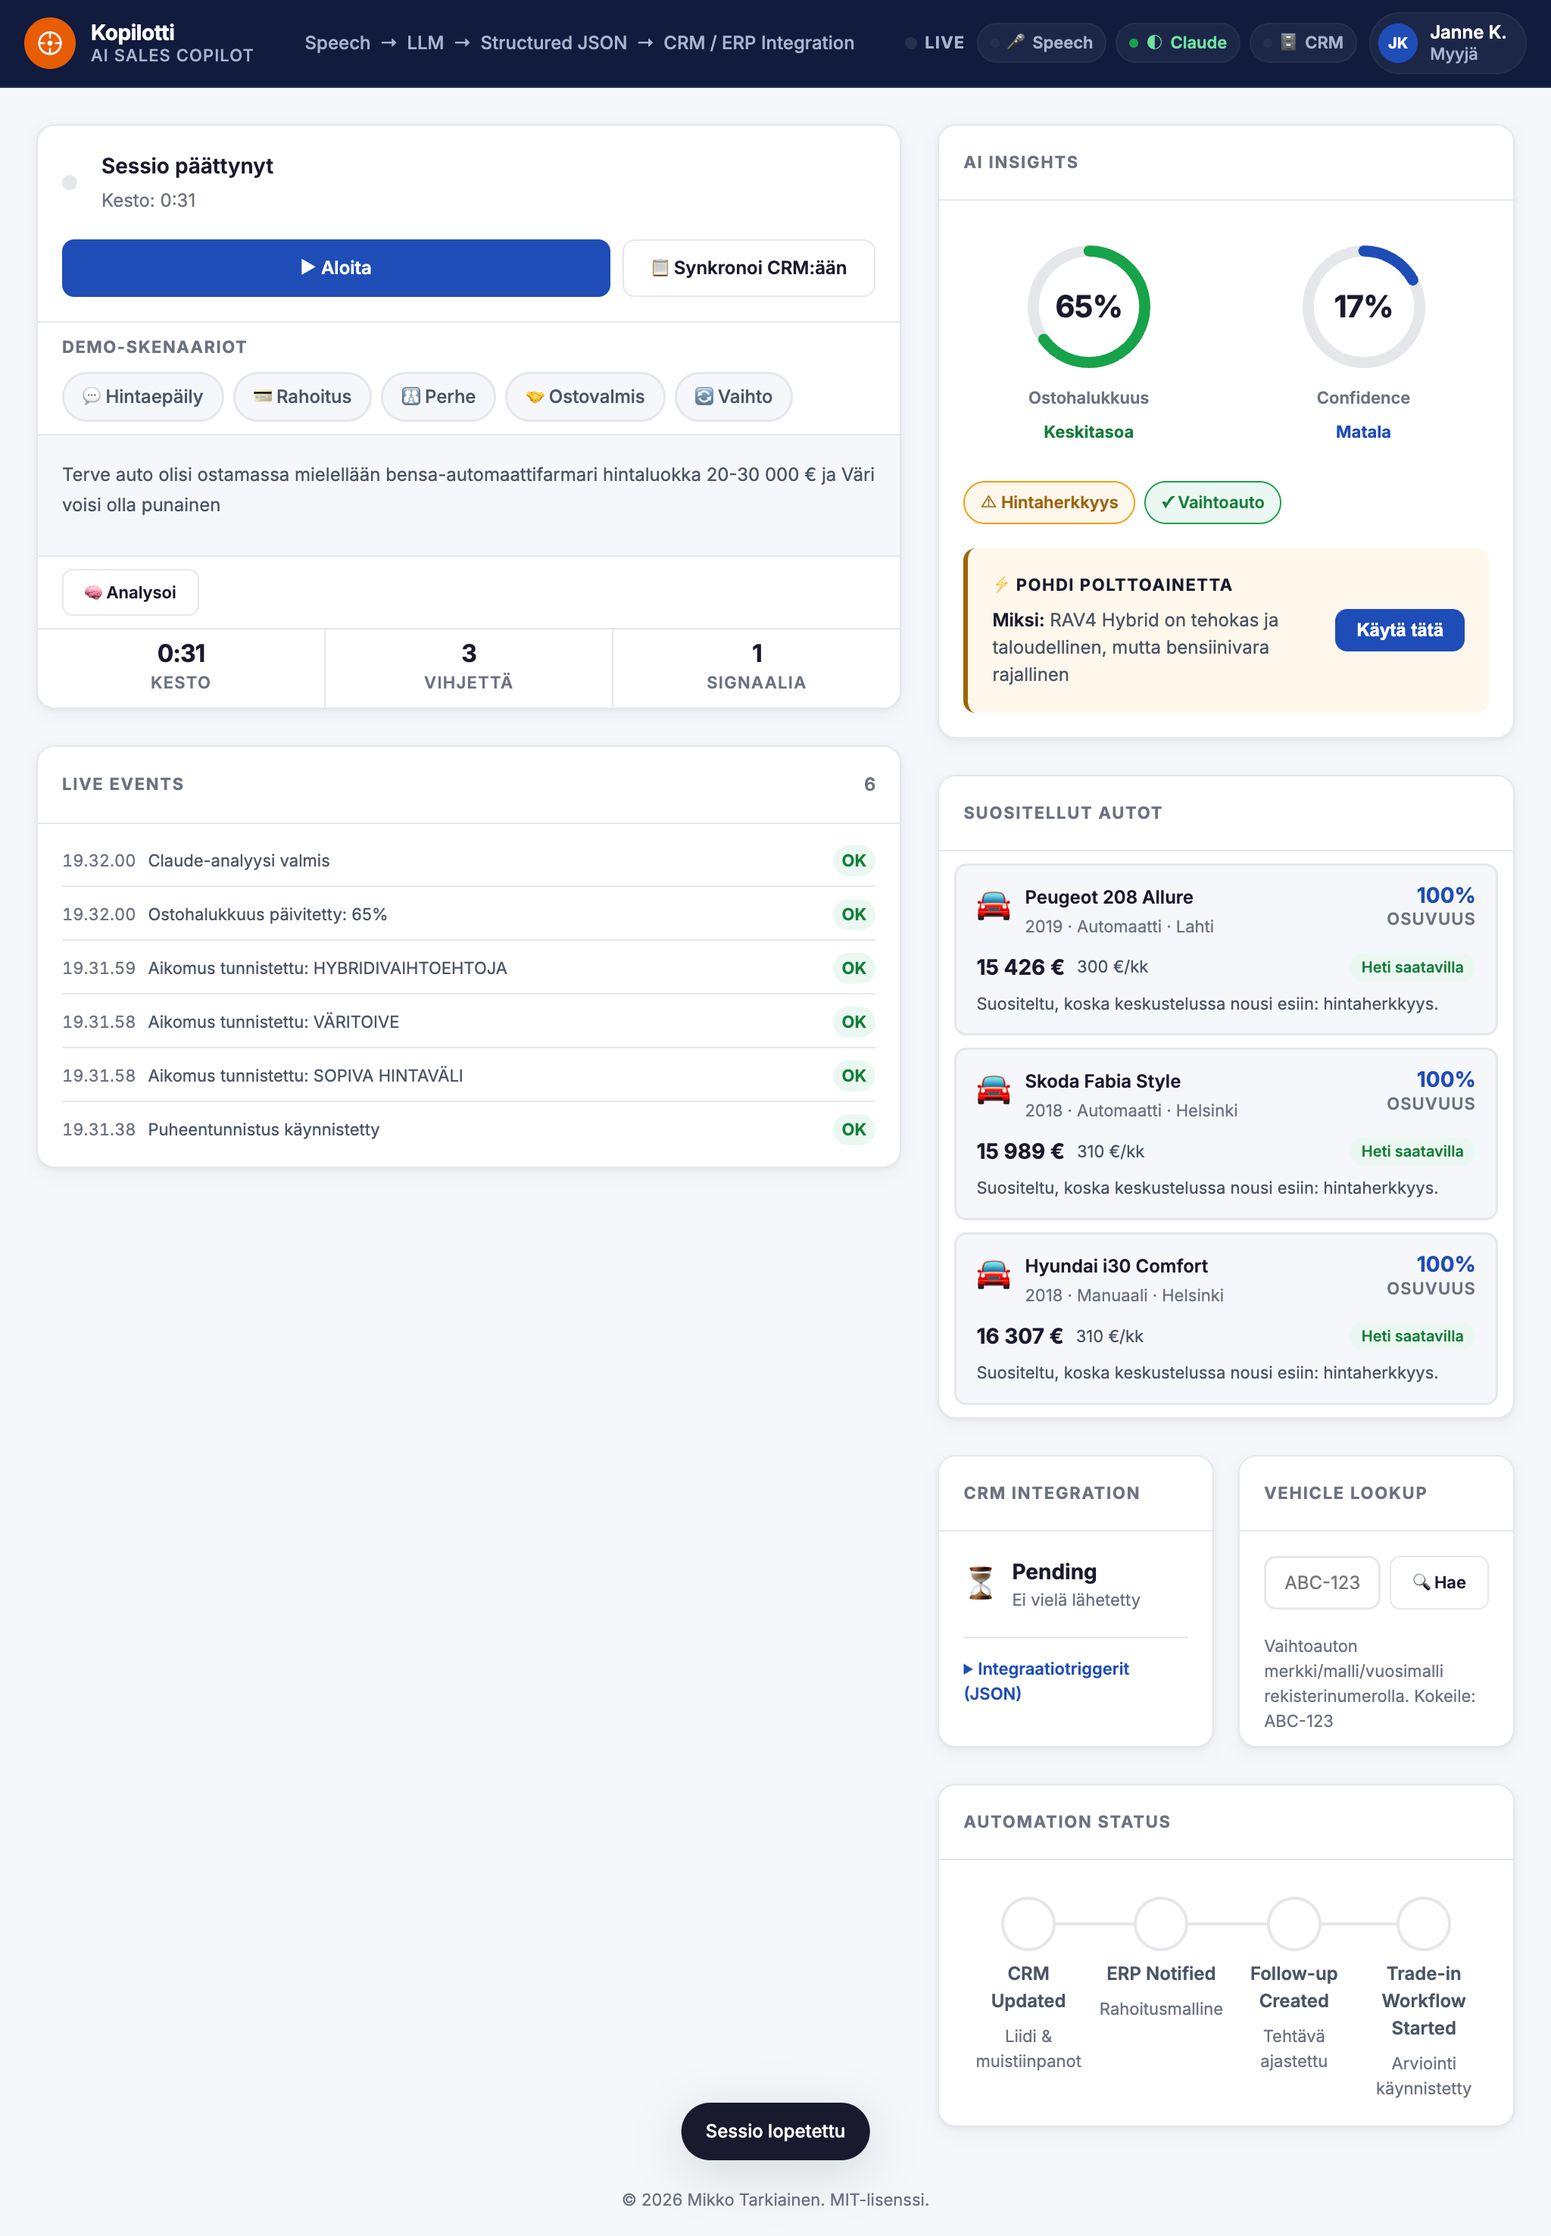
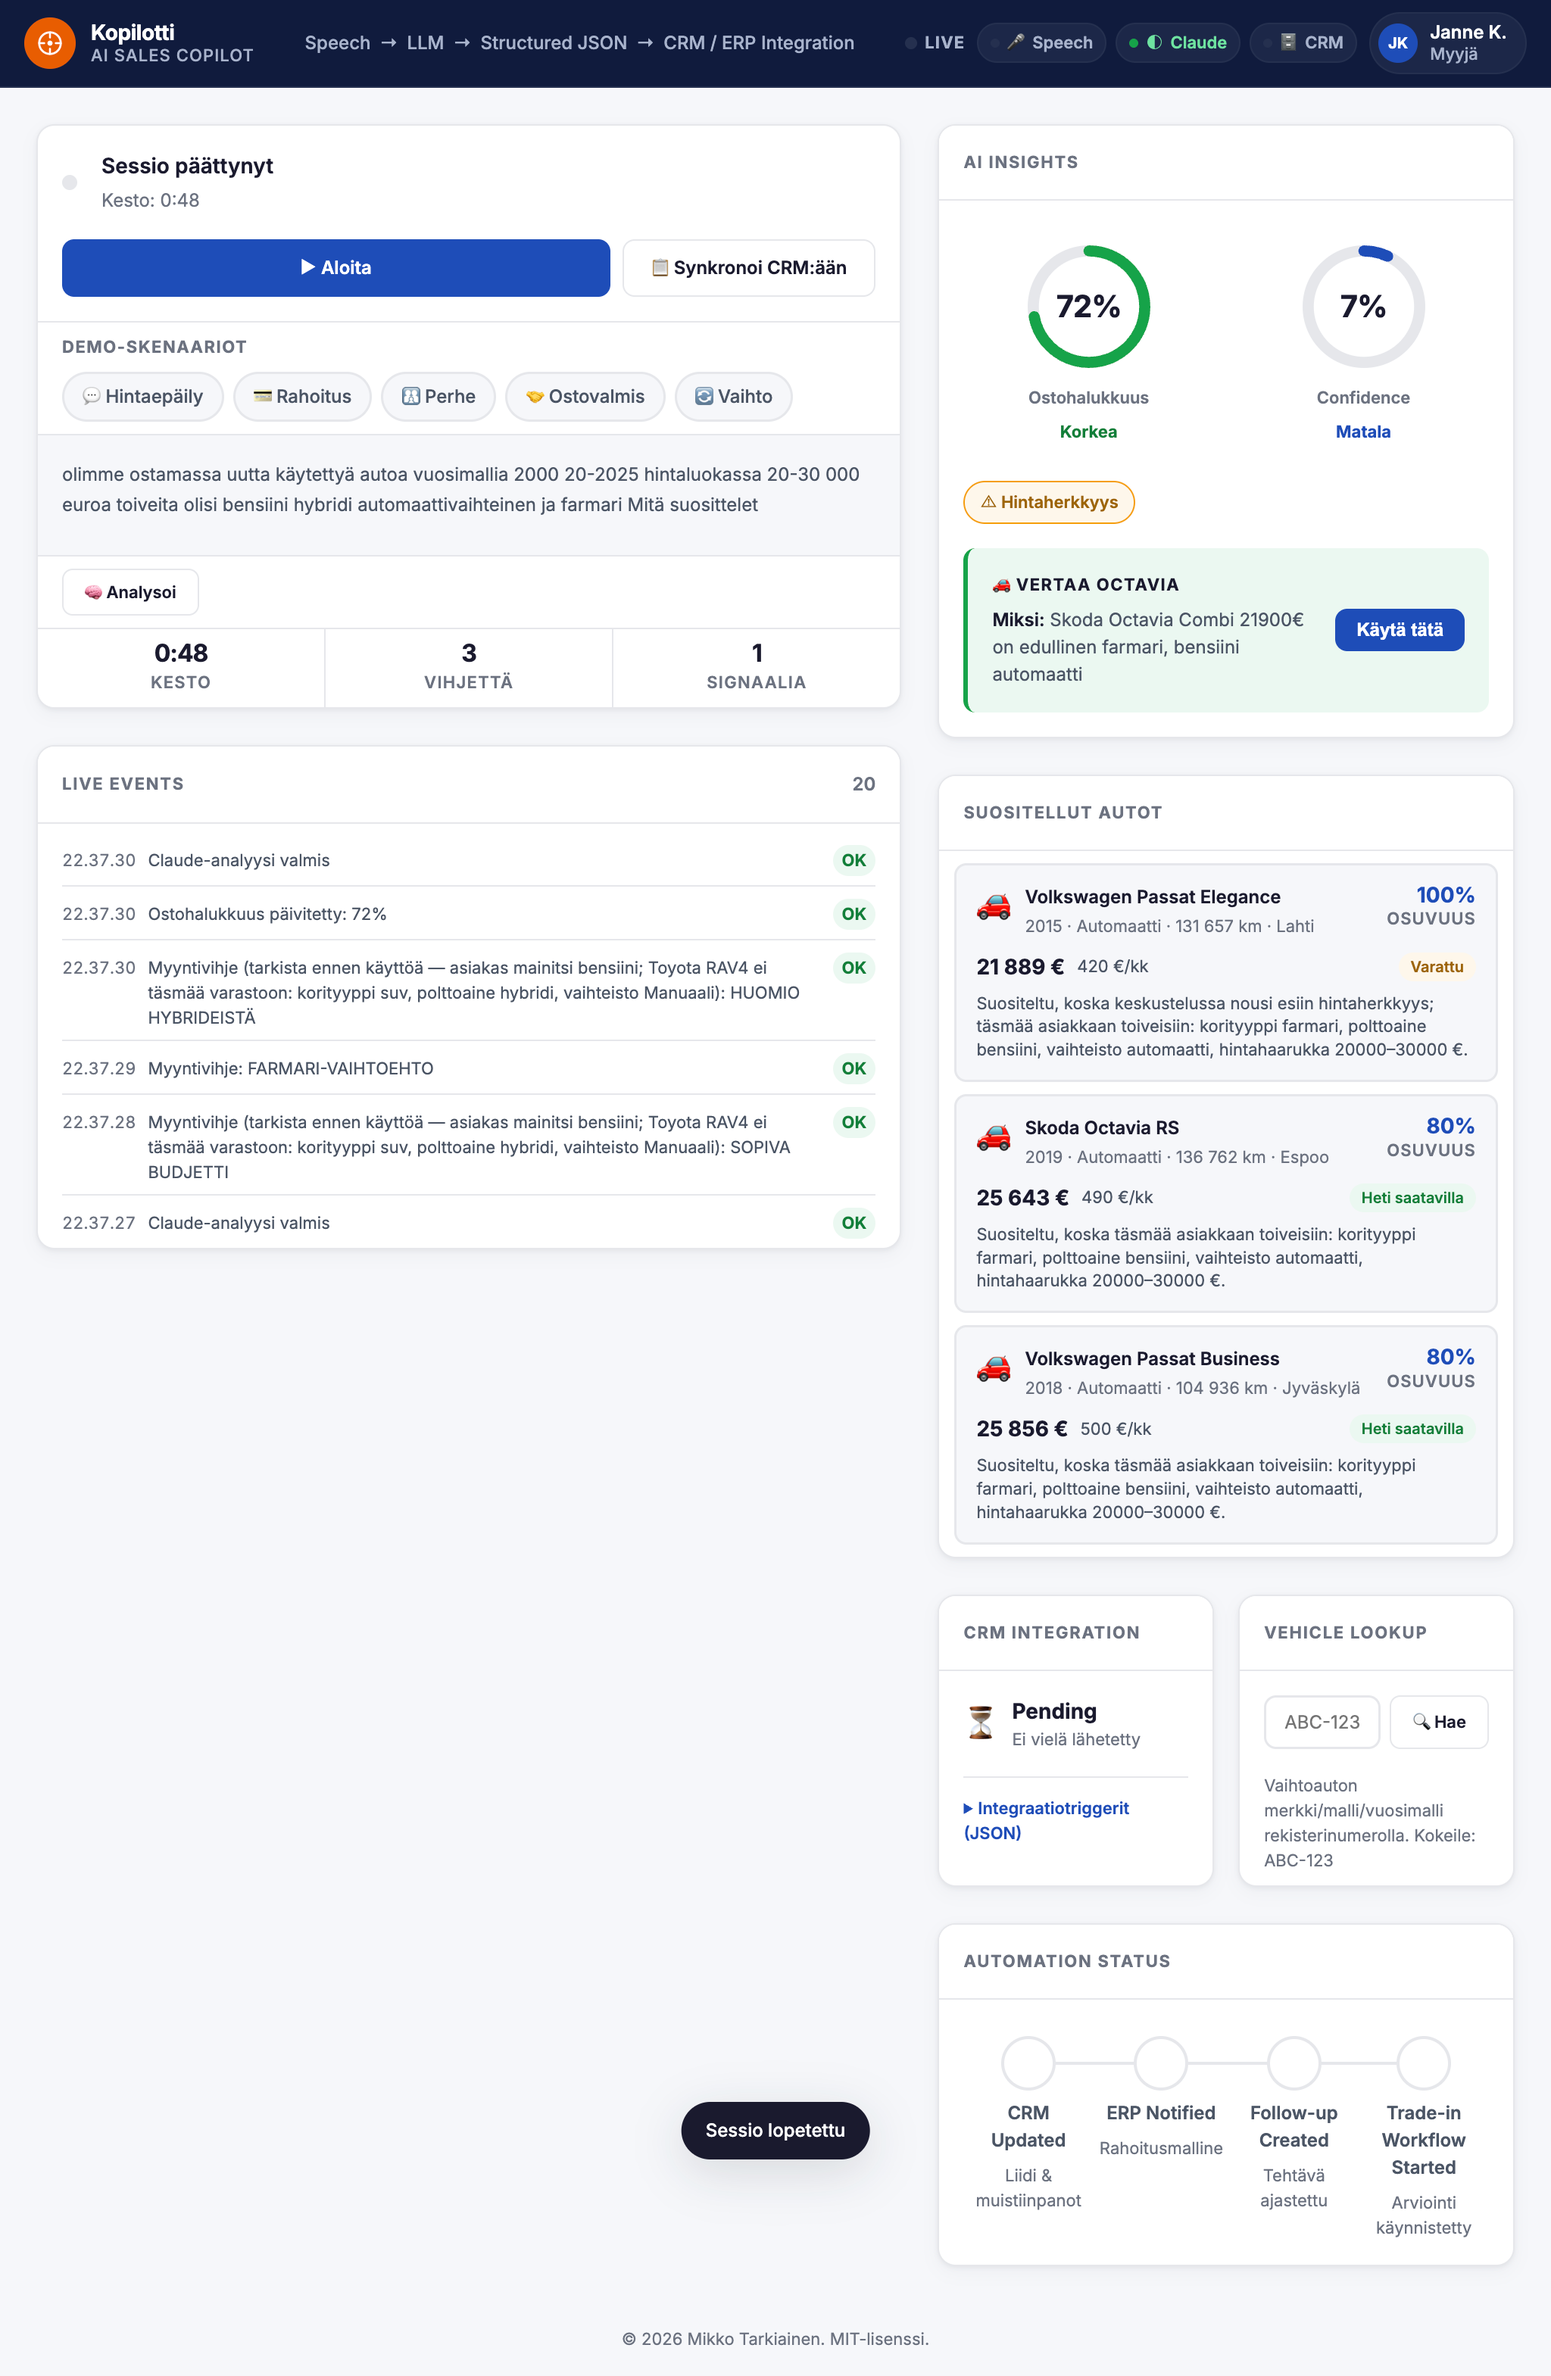
Add pakettiauto (van) demo scenario, sync system prompt with new van inventory
New 6th demo scenario ("📦 Pakettiauto") exercises the van/VAT-deductibility
feature added in the previous commit: a business customer asking for a
VAT-deductible panel van in a 20-30k€ budget, showing 3 real van
recommendations with the ALV-vähennyskelpoinen badge.

Running this scenario against the real Claude backend surfaced a genuine
contradiction: the backend's system prompt still only knew about 6
hardcoded passenger-car models, so live Claude output claimed "Myyntikatalogi
sisältää vain henkilöautoja, ei pakettiautoja" directly alongside the
deterministic engine correctly showing 3 matching vans — the AI and the UI
disagreeing on screen at the same time. Added one line to the system prompt
noting vans are also in stock and VAT-deductible by driving log — confirmed
across repeated real API calls that the contradiction is gone and the
5 pre-existing demo scenarios are unaffected.

Also updates the README screenshot and its alt text to the current UI.

diff --git a/js/app.js b/js/app.js
@@ -44,6 +44,20 @@ const SCENARIOS = {
       { type: 'blue', icon: '📉', title: 'PASSAT 2017 ARVO', text: 'Passat -17 / 140tkm markkina-arvo n. 9 500–11 500 € kunnosta riippuen. Aloita 9 800 €:sta.', action: 'Laske hyvitys' },
     ],
     meter: 54, meterDesc: 'Harkitsee — vaihtokauppa avain', cars: [3,4,1], signal: 'Vaihtoauto'
+  },
+  pakettiauto: {
+    text: 'Etsimme yritykselle pakettiautoa, tarvitsemme alv-vähennyskelpoisen. Budjetti noin 20-30 000 €.',
+    hints: [
+      { type: 'green', icon: '📦', title: 'PAKETTIAUTO + ALV', text: 'Asiakas etsii pakettiautoa yritykselle. ALV-vähennyskelpoisuus (ajopäiväkirjan mukaan) on vahva myyntivaltti — korosta sitä.', action: 'Näytä pakettiautot' },
+      { type: 'blue', icon: '💼', title: 'YRITYSASIAKAS', text: 'Yritysasiakkaalle kannattaa mainita myös rahoitusvaihtoehdot ja alv-vähennys hankintahinnasta.', action: 'Kerro rahoituksesta' },
+    ],
+    // No signal: mapping in SCENARIO_SIGNAL_TYPE (signals.js) — deliberately.
+    // This scenario's recommendations come from the vehicle-preferences.js
+    // bodyType=van hard filter, not the old buying-process signal-tag
+    // scheme (which has no category for "wants a van" and shouldn't be
+    // forced into one). "Budjetti" in the transcript still produces a
+    // genuine price_sensitivity signal via the local regex path.
+    meter: 68, meterDesc: 'Yritysasiakas — selkeä tarve', cars: [], signal: 'Pakettiauto'
   }
 };
 

diff --git a/server.js b/server.js
@@ -27,6 +27,7 @@ Säännöt:
 - type: green=mahdollisuus, blue=informaatio, yellow=varoitus, red=kiireellinen
 - METER value arvioi ostohalukkuus 0–100
 - CARS lista 1–3 sopivimmista (kaikki ovat KÄYTETTYJÄ autoja): 1=Volvo XC60 B4 AWD -21 (34900€), 2=Toyota RAV4 Hybrid -20 (28900€), 3=Skoda Octavia Combi -22 (21900€), 4=VW Passat Variant -19 (17500€), 5=BMW 320d Touring -21 (29500€), 6=Ford Kuga PHEV -22 (27900€)
+- Myyntikatalogiin kuuluu myös pakettiautoja (N1-luokka, esim. VW Transporter, Mercedes Sprinter, Renault Trafic, Citroën Berlingo) — nämä ovat ALV-vähennyskelpoisia liiketoimintakäytön ja ajopäiväkirjan perusteella, toisin kuin henkilöautot
 - Kirjoita suomeksi, ole konkreettinen
 - EI selityksiä, EI muuta tekstiä`;
 

diff --git a/index.html b/index.html
@@ -115,6 +115,7 @@
         <button class="scenario-btn" type="button" data-scenario="perhe">👨👩👧 Perhe</button>
         <button class="scenario-btn" type="button" data-scenario="osto">🤝 Ostovalmis</button>
         <button class="scenario-btn" type="button" data-scenario="vaihto">🔄 Vaihto</button>
+        <button class="scenario-btn" type="button" data-scenario="pakettiauto">📦 Pakettiauto</button>
       </div>
 
       <!-- Transcript -->

diff --git a/README.md b/README.md
@@ -4,7 +4,7 @@ Reaaliaikainen tekoälyassistentti, joka analysoi myyjän ja asiakkaan keskustel
 
 **→ [Live demo](https://mikko-lab.github.io/kopilotti-demo/)**
 
-![Kopilotti-käyttöliittymä: AI Insights -mittarit (ostohalukkuus 65 %, confidence 17 %), tunnistetut signaalit, suositellut autot osuvuusprosentein ja Automation Status -putki](assets/screenshot.png)
+![Kopilotti-käyttöliittymä: AI Insights -mittarit (ostohalukkuus 72 %, confidence 7 %), Suggested Next Action -kortti jossa merkintä tarkistamattomasta tekoälyehdotuksesta, ja Suositellut autot -kortti jossa jokainen tulos selittää täsmäävät kriteerit yksitellen](assets/screenshot.png)
 
 ---
 
@@ -63,7 +63,7 @@ Rakennettu API-pohjaisena arkkitehtuurina, jossa LLM-analyysi toimii erillisenä
 - **SSE-striimaus** — LLM-analyysi pyörii Node.js-backendissä (Railway), tulokset striimautuvat Server-Sent Events -yhteydellä suoraan myyjän näytölle. API-avain palvelimella, ei selaimessa.
 - **Graceful fallback** — jos backend ei ole tavoitettavissa (tai LLM-kutsu epäonnistuu palvelimella), UI siirtyy automaattisesti paikalliseen analyysiin ilman virheilmoituksia.
 - **Enterprise-käyttöliittymän uudistus** — Stripe/Linear-tason visuaalinen ilme: tumma header, uusi väripaletti, SVG-pohjaiset ostohalukkuus-/confidence-mittarit, kaksipalstainen responsiivinen layout. WCAG 2.2 AA -tasoinen saavutettavuus (kontrasti tarkistettu myös axe:n omien sokeiden pisteiden — aria-hidden-sisältö, ::after-pseudoelementit — ohi käsinlasketulla auditoinnilla; näppäimistökäyttö ja `prefers-reduced-motion` testattu).
-- **Deterministinen tekoälypohjainen varastonhaku** — 358 auton siemenpohjainen, uusittavissa oleva demovarasto (`npm run generate:inventory`), joka pisteyttää keskustelusta tunnistetut signaalit (rahoitus, perhetarve, hintaherkkyys) ja nostaa top-3 osuvinta autoa selityksineen. Tasapelit ratkeavat eksplisiittisellä säännöllä (halvin ensin, sitten auton ID) — ei riipu satunnaisuudesta tai toteutuksen yksityiskohdista.
+- **Deterministinen tekoälypohjainen varastonhaku** — 375 ajoneuvon siemenpohjainen, uusittavissa oleva demovarasto (`npm run generate:inventory`, 357 henkilöautoa + 18 pakettiautoa), joka poimii keskustelusta korityypin, polttoaineen, hinnan, vaihteiston, kilometri- ja ikärajan sekä signaalit (rahoitus, perhetarve, hintaherkkyys) — nämä ovat kovia suodattimia, ei pehmeitä tageja, joten tulos vastaa oikeasti sitä mitä asiakas sanoi. Pakettiautohaku ("etsin pakettiautoa", "onko alv-vähennyskelpoinen") näyttää vain pakettiautoja, merkittynä ALV-vähennyskelpoisuudella ehtoineen. Tasapelit ratkeavat eksplisiittisellä säännöllä (halvin ensin, sitten auton ID) — ei riipu satunnaisuudesta tai toteutuksen yksityiskohdista.
 
 ### Seuraavaksi: Oikeat integraatiot
 Mock-triggerit korvataan oikeilla API-kutsuilla integraatioalustan (Workato / Frends) kautta:
